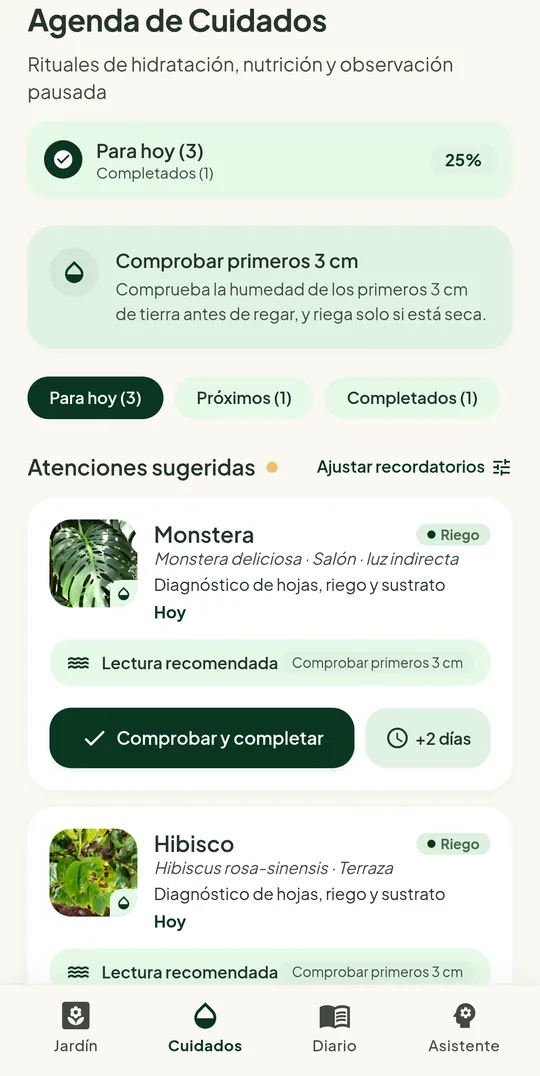
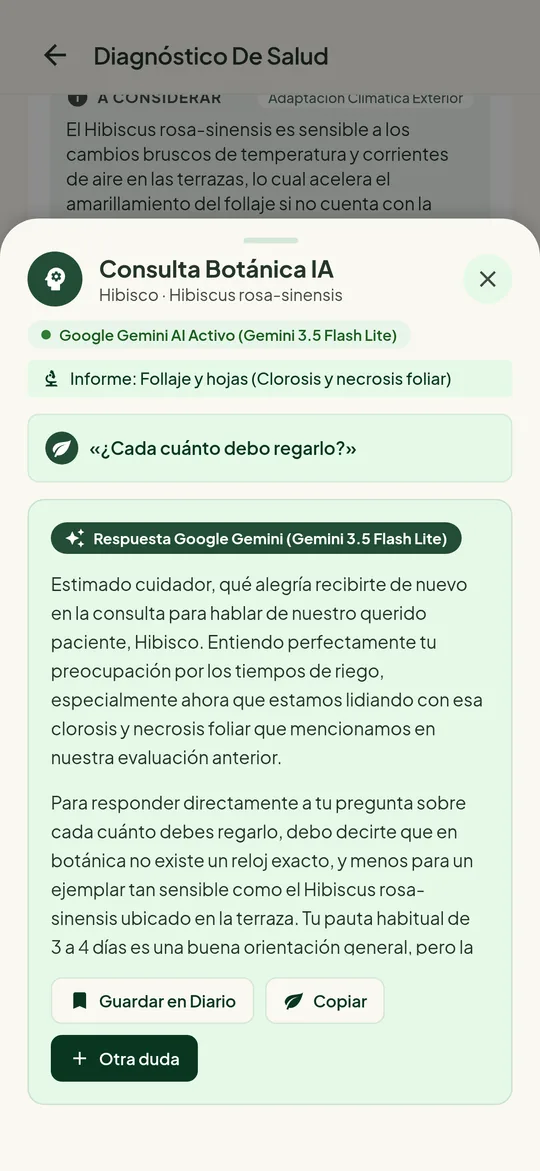
Add PlantCare AI answer screenshot

diff --git a/src/content/projects/en/plantcare-journal.md b/src/content/projects/en/plantcare-journal.md
@@ -7,7 +7,7 @@ platforms: [android]
 logo: /images/plantcare-icon.svg
 ogImage: /images/plantcare-icon-512.png
 icon: potted_plant
-screenshots: [/images/plantcare-1.webp, /images/plantcare-2.webp, /images/plantcare-3.webp, /images/plantcare-4.webp]
+screenshots: [/images/plantcare-1.webp, /images/plantcare-2.webp, /images/plantcare-3.webp, /images/plantcare-4.webp, /images/plantcare-5.webp]
 tags: [Expo, React Native, Google Gemini]
 privacyUrl: /plantcare/privacy/#en
 featured: true

diff --git a/src/content/projects/es/plantcare-journal.md b/src/content/projects/es/plantcare-journal.md
@@ -7,7 +7,7 @@ platforms: [android]
 logo: /images/plantcare-icon.svg
 ogImage: /images/plantcare-icon-512.png
 icon: potted_plant
-screenshots: [/images/plantcare-1.webp, /images/plantcare-2.webp, /images/plantcare-3.webp, /images/plantcare-4.webp]
+screenshots: [/images/plantcare-1.webp, /images/plantcare-2.webp, /images/plantcare-3.webp, /images/plantcare-4.webp, /images/plantcare-5.webp]
 tags: [Expo, React Native, Google Gemini]
 privacyUrl: /plantcare/privacy/#es
 featured: true
